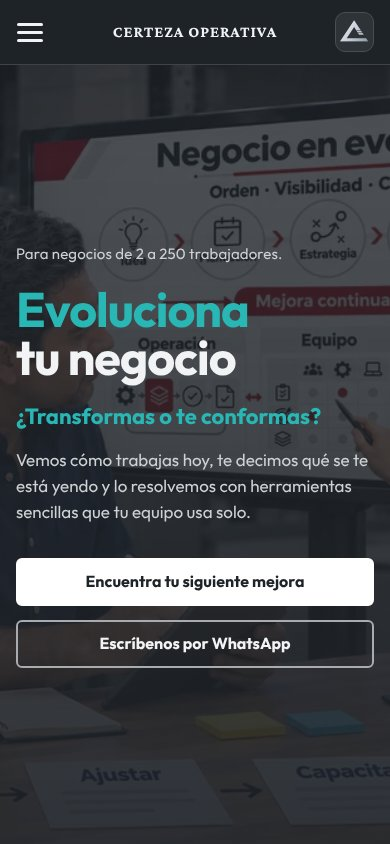
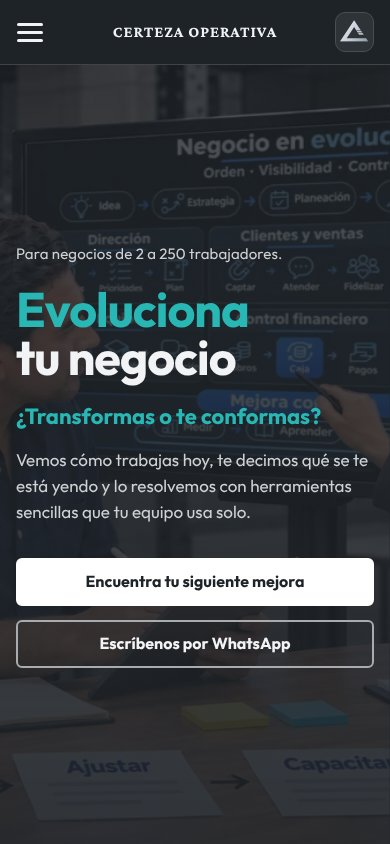
Encabezado: montaje con la foto HD y la diapositiva «Negocio en evolución»
- Foto limpia ampliada x2 (Real-ESRGAN) y diapositiva montada en la pantalla
  con perspectiva: esquinas por cruce de bordes visibles (las inferiores
  quedan tapadas), guardadas en _fuente/montaje-encabezado.json.
- Cabezas, mano y pluma quedan encima de la diapositiva (máscara con borde
  suave y sin halo blanco). Luz igualada: contraste y saturación -7 %,
  desenfoque 0.5 px y reflejo según la pantalla original.
- Escena recorrida 240 px a la derecha para dejar a las personas del lado
  derecho, como en la referencia. Exportado a 2400×1351 y 1200×675.
- Degradado de escritorio más oscuro detrás del texto para mantener el
  contraste mínimo con la foto nueva («Evoluciona» 4.86, botón 7.09).
- Imagen para compartir y capturas actualizadas; capturas del monitor al
  100 % y 200 % en _capturas/encabezado-v3/.

Claude-Session: https://claude.ai/code/session_01UwYARog3KbigybZZJQPyiK

diff --git a/index.html b/index.html
@@ -12,7 +12,7 @@
 <link rel="preload" href="assets/fonts/CrimsonPro-Bold.woff2" as="font" type="font/woff2" crossorigin>
 <link rel="preload" href="assets/fonts/Outfit-Regular.woff2" as="font" type="font/woff2" crossorigin>
 <link rel="preload" href="assets/fonts/Outfit-Bold.woff2" as="font" type="font/woff2" crossorigin>
-<link rel="stylesheet" href="assets/estilo.css?v=645d1455">
+<link rel="stylesheet" href="assets/estilo.css?v=c359c711">
 <meta property="og:type" content="website">
 <meta property="og:locale" content="es_MX">
 <meta property="og:site_name" content="Certeza Operativa">
@@ -50,7 +50,7 @@
 <main id="contenido">
 
 <section class="oscuro hero" aria-labelledby="t-hero">
-  <img class="hero-foto" src="assets/encabezado.webp" srcset="assets/encabezado-1200.webp 1200w, assets/encabezado.webp 2400w" sizes="100vw" width="2400" height="1242" fetchpriority="high" alt="Dos personas revisan en un monitor un esquema de las etapas de un negocio: orden, visibilidad, control y mejora continua.">
+  <img class="hero-foto" src="assets/encabezado.webp" srcset="assets/encabezado-1200.webp 1200w, assets/encabezado.webp 2400w" sizes="100vw" width="2400" height="1351" fetchpriority="high" alt="Dos personas revisan en un monitor un esquema de las etapas de un negocio: orden, visibilidad, control y mejora continua.">
   <div class="wrap">
     <div class="hero-txt">
       <p class="kicker anim" style="--i:0">Para negocios de 2 a 250 trabajadores.</p>

diff --git a/assets/estilo.css b/assets/estilo.css
@@ -128,7 +128,7 @@ html.menu-abierto .menu-velo { opacity: 1; visibility: visible; transition: opac
 /* Encabezado de inicio: foto montada a la derecha, texto sobre degradado grafito */
 .hero { position: relative; isolation: isolate; overflow: hidden; display: flex; align-items: center; min-height: clamp(560px, calc(100svh - var(--hdr)), 860px); }
 .hero-foto { position: absolute; inset: 0; z-index: -2; width: 100%; height: 100%; object-fit: cover; object-position: 70% 50%; }
-.hero::before { content: ""; position: absolute; inset: 0; z-index: -1; background: linear-gradient(90deg, rgba(30, 35, 40, .96) 0%, rgba(30, 35, 40, .9) 28%, rgba(30, 35, 40, .55) 42%, rgba(30, 35, 40, 0) 56%); }
+.hero::before { content: ""; position: absolute; inset: 0; z-index: -1; background: linear-gradient(90deg, rgba(30, 35, 40, .96) 0%, rgba(30, 35, 40, .93) 33%, rgba(30, 35, 40, .78) 43%, rgba(30, 35, 40, .25) 51%, rgba(30, 35, 40, 0) 57%); }
 .hero .wrap { display: block; width: 100%; }
 .hero-txt { max-width: 640px; }
 .hero .kicker { font-size: 17px; font-weight: 400; letter-spacing: .01em; color: var(--texto-claro-2); margin: 0 0 20px; }

diff --git a/industrias/alimentos-y-bebidas.html b/industrias/alimentos-y-bebidas.html
@@ -12,7 +12,7 @@
 <link rel="preload" href="../assets/fonts/CrimsonPro-Bold.woff2" as="font" type="font/woff2" crossorigin>
 <link rel="preload" href="../assets/fonts/Outfit-Regular.woff2" as="font" type="font/woff2" crossorigin>
 <link rel="preload" href="../assets/fonts/Outfit-Bold.woff2" as="font" type="font/woff2" crossorigin>
-<link rel="stylesheet" href="../assets/estilo.css?v=645d1455">
+<link rel="stylesheet" href="../assets/estilo.css?v=c359c711">
 <meta property="og:type" content="website">
 <meta property="og:locale" content="es_MX">
 <meta property="og:site_name" content="Certeza Operativa">

diff --git a/industrias/automotriz.html b/industrias/automotriz.html
@@ -12,7 +12,7 @@
 <link rel="preload" href="../assets/fonts/CrimsonPro-Bold.woff2" as="font" type="font/woff2" crossorigin>
 <link rel="preload" href="../assets/fonts/Outfit-Regular.woff2" as="font" type="font/woff2" crossorigin>
 <link rel="preload" href="../assets/fonts/Outfit-Bold.woff2" as="font" type="font/woff2" crossorigin>
-<link rel="stylesheet" href="../assets/estilo.css?v=645d1455">
+<link rel="stylesheet" href="../assets/estilo.css?v=c359c711">
 <meta property="og:type" content="website">
 <meta property="og:locale" content="es_MX">
 <meta property="og:site_name" content="Certeza Operativa">

diff --git a/industrias/comercio-y-tiendas.html b/industrias/comercio-y-tiendas.html
@@ -12,7 +12,7 @@
 <link rel="preload" href="../assets/fonts/CrimsonPro-Bold.woff2" as="font" type="font/woff2" crossorigin>
 <link rel="preload" href="../assets/fonts/Outfit-Regular.woff2" as="font" type="font/woff2" crossorigin>
 <link rel="preload" href="../assets/fonts/Outfit-Bold.woff2" as="font" type="font/woff2" crossorigin>
-<link rel="stylesheet" href="../assets/estilo.css?v=645d1455">
+<link rel="stylesheet" href="../assets/estilo.css?v=c359c711">
 <meta property="og:type" content="website">
 <meta property="og:locale" content="es_MX">
 <meta property="og:site_name" content="Certeza Operativa">

diff --git a/industrias/construccion-e-ingenieria.html b/industrias/construccion-e-ingenieria.html
@@ -12,7 +12,7 @@
 <link rel="preload" href="../assets/fonts/CrimsonPro-Bold.woff2" as="font" type="font/woff2" crossorigin>
 <link rel="preload" href="../assets/fonts/Outfit-Regular.woff2" as="font" type="font/woff2" crossorigin>
 <link rel="preload" href="../assets/fonts/Outfit-Bold.woff2" as="font" type="font/woff2" crossorigin>
-<link rel="stylesheet" href="../assets/estilo.css?v=645d1455">
+<link rel="stylesheet" href="../assets/estilo.css?v=c359c711">
 <meta property="og:type" content="website">
 <meta property="og:locale" content="es_MX">
 <meta property="og:site_name" content="Certeza Operativa">

diff --git a/industrias/distribucion-y-logistica.html b/industrias/distribucion-y-logistica.html
@@ -12,7 +12,7 @@
 <link rel="preload" href="../assets/fonts/CrimsonPro-Bold.woff2" as="font" type="font/woff2" crossorigin>
 <link rel="preload" href="../assets/fonts/Outfit-Regular.woff2" as="font" type="font/woff2" crossorigin>
 <link rel="preload" href="../assets/fonts/Outfit-Bold.woff2" as="font" type="font/woff2" crossorigin>
-<link rel="stylesheet" href="../assets/estilo.css?v=645d1455">
+<link rel="stylesheet" href="../assets/estilo.css?v=c359c711">
 <meta property="og:type" content="website">
 <meta property="og:locale" content="es_MX">
 <meta property="og:site_name" content="Certeza Operativa">

diff --git a/industrias/fabricacion-y-produccion.html b/industrias/fabricacion-y-produccion.html
@@ -12,7 +12,7 @@
 <link rel="preload" href="../assets/fonts/CrimsonPro-Bold.woff2" as="font" type="font/woff2" crossorigin>
 <link rel="preload" href="../assets/fonts/Outfit-Regular.woff2" as="font" type="font/woff2" crossorigin>
 <link rel="preload" href="../assets/fonts/Outfit-Bold.woff2" as="font" type="font/woff2" crossorigin>
-<link rel="stylesheet" href="../assets/estilo.css?v=645d1455">
+<link rel="stylesheet" href="../assets/estilo.css?v=c359c711">
 <meta property="og:type" content="website">
 <meta property="og:locale" content="es_MX">
 <meta property="og:site_name" content="Certeza Operativa">

diff --git a/industrias/servicios-profesionales.html b/industrias/servicios-profesionales.html
@@ -12,7 +12,7 @@
 <link rel="preload" href="../assets/fonts/CrimsonPro-Bold.woff2" as="font" type="font/woff2" crossorigin>
 <link rel="preload" href="../assets/fonts/Outfit-Regular.woff2" as="font" type="font/woff2" crossorigin>
 <link rel="preload" href="../assets/fonts/Outfit-Bold.woff2" as="font" type="font/woff2" crossorigin>
-<link rel="stylesheet" href="../assets/estilo.css?v=645d1455">
+<link rel="stylesheet" href="../assets/estilo.css?v=c359c711">
 <meta property="og:type" content="website">
 <meta property="og:locale" content="es_MX">
 <meta property="og:site_name" content="Certeza Operativa">

diff --git a/industrias/turismo-y-hospitalidad.html b/industrias/turismo-y-hospitalidad.html
@@ -12,7 +12,7 @@
 <link rel="preload" href="../assets/fonts/CrimsonPro-Bold.woff2" as="font" type="font/woff2" crossorigin>
 <link rel="preload" href="../assets/fonts/Outfit-Regular.woff2" as="font" type="font/woff2" crossorigin>
 <link rel="preload" href="../assets/fonts/Outfit-Bold.woff2" as="font" type="font/woff2" crossorigin>
-<link rel="stylesheet" href="../assets/estilo.css?v=645d1455">
+<link rel="stylesheet" href="../assets/estilo.css?v=c359c711">
 <meta property="og:type" content="website">
 <meta property="og:locale" content="es_MX">
 <meta property="og:site_name" content="Certeza Operativa">

diff --git a/soluciones/control.html b/soluciones/control.html
@@ -12,7 +12,7 @@
 <link rel="preload" href="../assets/fonts/CrimsonPro-Bold.woff2" as="font" type="font/woff2" crossorigin>
 <link rel="preload" href="../assets/fonts/Outfit-Regular.woff2" as="font" type="font/woff2" crossorigin>
 <link rel="preload" href="../assets/fonts/Outfit-Bold.woff2" as="font" type="font/woff2" crossorigin>
-<link rel="stylesheet" href="../assets/estilo.css?v=645d1455">
+<link rel="stylesheet" href="../assets/estilo.css?v=c359c711">
 <meta property="og:type" content="website">
 <meta property="og:locale" content="es_MX">
 <meta property="og:site_name" content="Certeza Operativa">

diff --git a/soluciones/herramientas.html b/soluciones/herramientas.html
@@ -12,7 +12,7 @@
 <link rel="preload" href="../assets/fonts/CrimsonPro-Bold.woff2" as="font" type="font/woff2" crossorigin>
 <link rel="preload" href="../assets/fonts/Outfit-Regular.woff2" as="font" type="font/woff2" crossorigin>
 <link rel="preload" href="../assets/fonts/Outfit-Bold.woff2" as="font" type="font/woff2" crossorigin>
-<link rel="stylesheet" href="../assets/estilo.css?v=645d1455">
+<link rel="stylesheet" href="../assets/estilo.css?v=c359c711">
 <meta property="og:type" content="website">
 <meta property="og:locale" content="es_MX">
 <meta property="og:site_name" content="Certeza Operativa">
